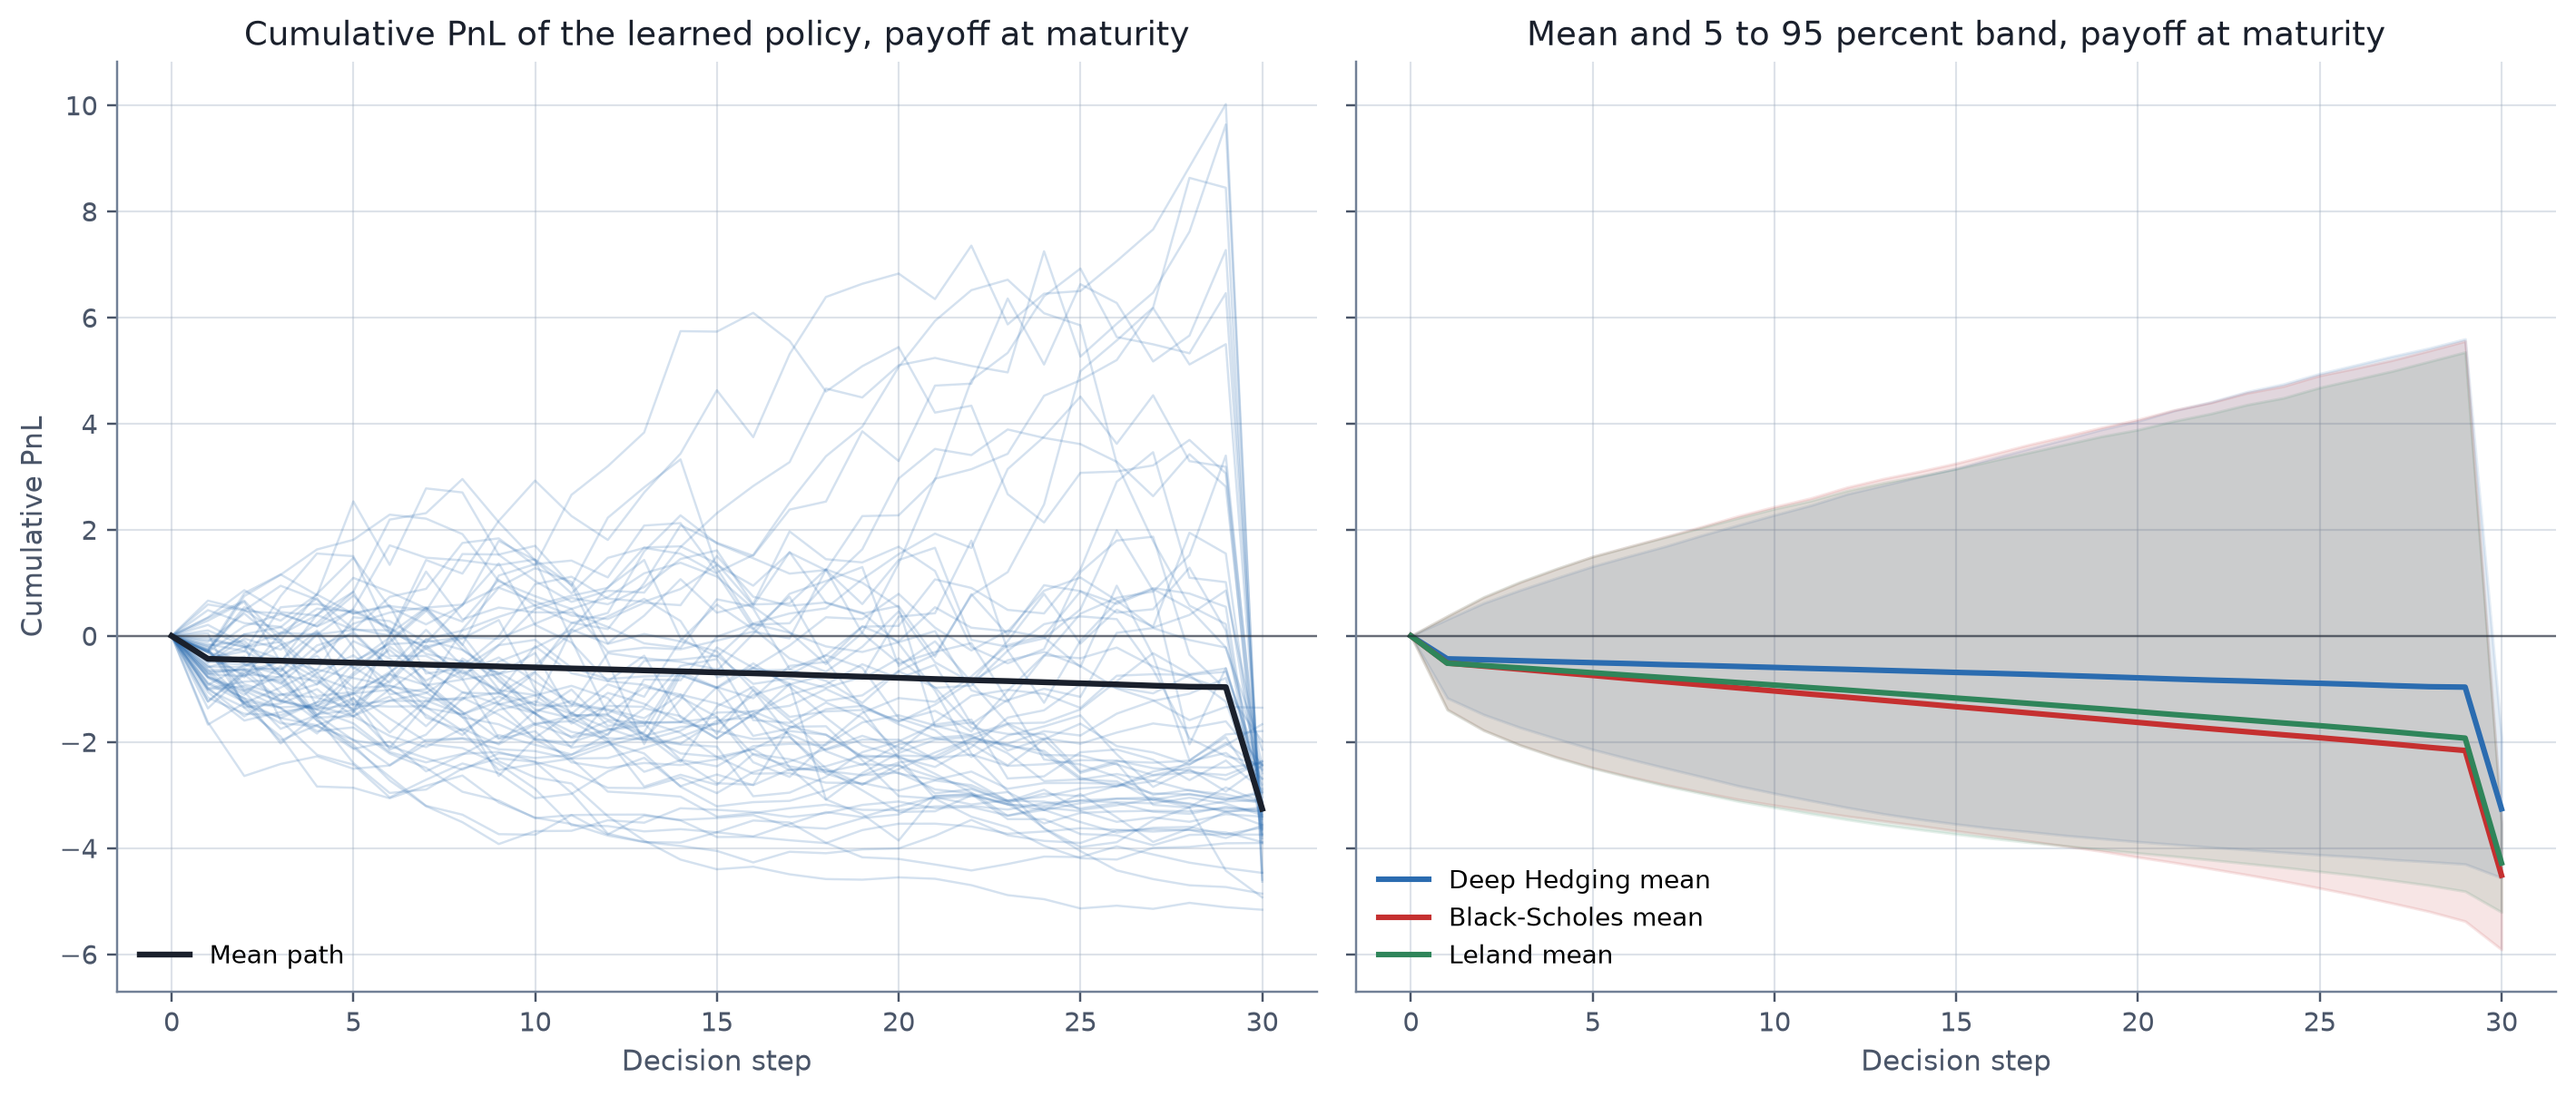
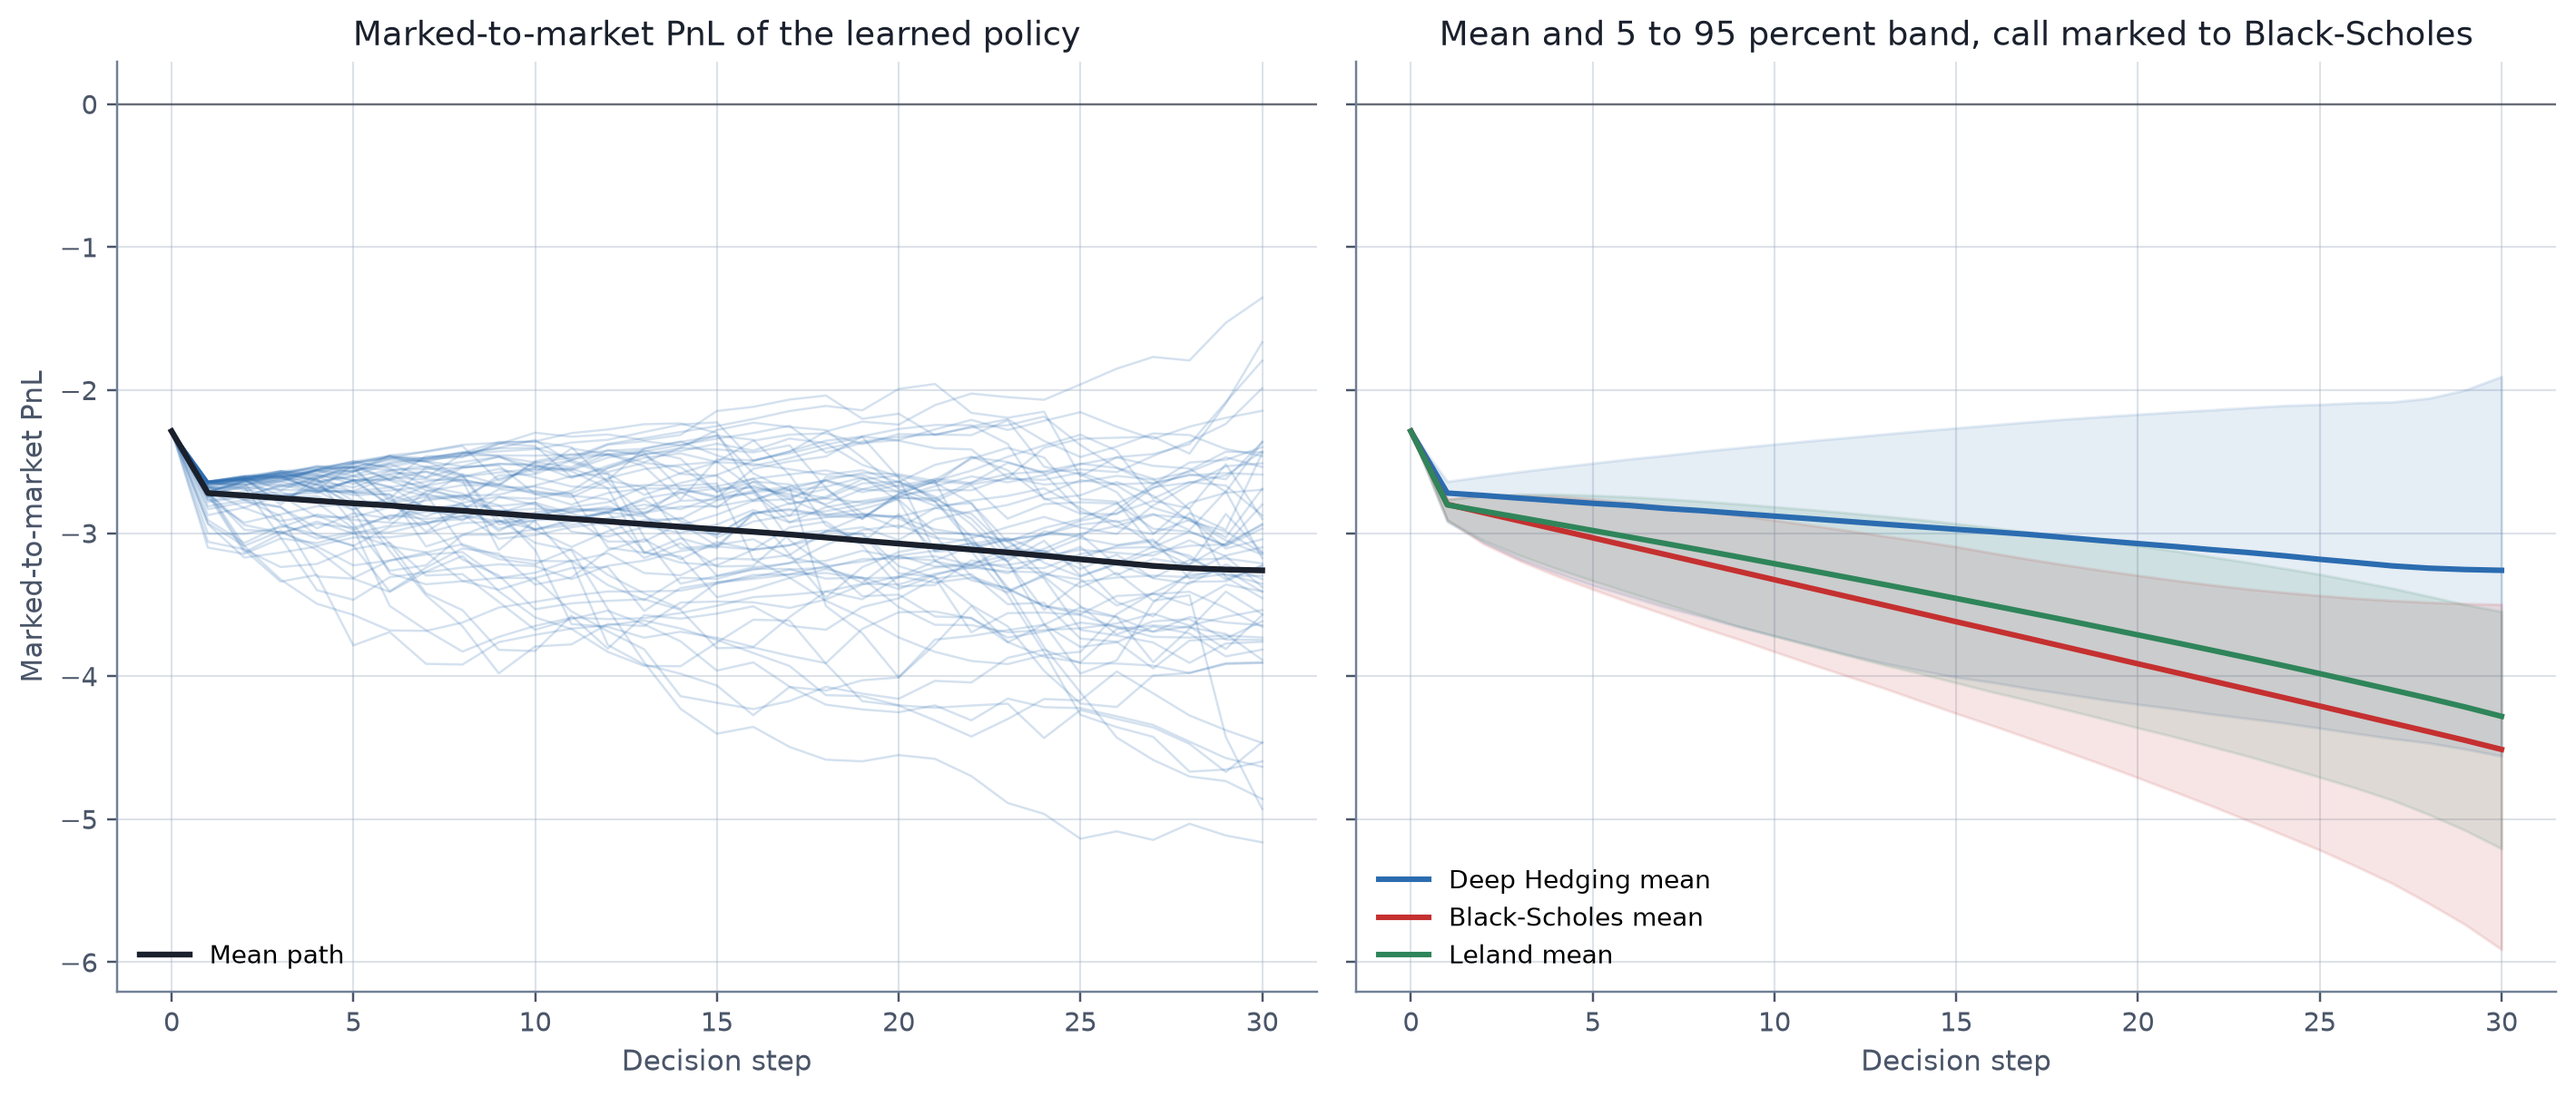
Re-run the canonical study with the marked-to-market drawdown
The review fixes changed the drawdown and turnover definitions but left
the stored canonical run on the old ones, so the document had to
withdraw those numbers. Re-running main.py at seed 42 replaces them.

Marked-to-market drawdown is now 1.327 for deep hedging against 2.237
for Black-Scholes and 2.015 for Leland, the same ordering as the CVaR
results, where the terminal-jump version gave 5.213, 6.121 and 5.896 and
could not separate the strategies. Traded-volume turnover is 0.972,
2.224 and 1.994, close to the mean cost column as it must be under
proportional costs.

Update the drawdown, turnover and pnl_paths sections to the new numbers,
drop the completed rerun from the next experiments, and fix the README
layout fence language.

diff --git a/PRELIMINARY_ANALYSIS.md b/PRELIMINARY_ANALYSIS.md
@@ -680,12 +680,21 @@ trade. The paper does not print a GBM position trajectory figure, so this is an 
 
 ### `pnl_paths.png`
 
-**Withdrawn.** This figure plots the hedge account alone and books the whole option liability at the
-last step. The 5 to 95 percent bands therefore mostly show the gains and losses of holding about half a
-share, not the risk of the hedged position, and they are almost identical for all three strategies.
-`main.py` now draws this figure with the short call marked to its Black-Scholes value at every step,
-so the path ends exactly at terminal PnL; the corrected figure is produced on the next run of
-`main.py`. The file in `results/` is the old version and should not be used.
+Left: 60 sampled marked-to-market PnL paths of the learned policy through the decision steps, with the
+mean path. Right: the mean path and the 5 to 95 percent band for all three strategies.
+
+The short call is carried at its Black-Scholes value at every decision date, so the path ends exactly
+at terminal PnL and there is no artificial cliff at maturity. The mean path starts at about -2.3, drops
+to -2.7 once the first trade is paid for, and then declines gently to -3.26. The three strategies
+separate cleanly: deep hedging ends at -3.26, Leland at -4.28 and Black-Scholes at -4.51, and the
+ordering is the same at every step from about step 3 onward. The deep hedging band is the widest of the
+three, which is the same dispersion trade-off visible in the histogram: the policy buys a better mean
+and a better tail at the price of a wider body.
+
+An earlier version of this figure plotted the hedge account alone and booked the whole liability at the
+last step. Its bands mostly showed the gains and losses of holding about half a share, were almost
+identical across strategies, and ended in a cliff that was an artifact of the accounting rather than of
+the hedging. That version is superseded.
 
 ### Paper reproduction figures
 
@@ -805,13 +814,18 @@ figure pipeline are consistent.
 | Black-Scholes | -4.512 | 0.757 | 6.363 | 7.016 | 4.861 | 2.224 | -2.288 | 0.526 |
 | Leland | -4.281 | 0.512 | 5.539 | 6.039 | 4.429 | 1.993 | -2.288 | 0.495 |
 
-The turnover column has been removed. The stored values (15.51, 15.01, 15.11, also in the `turnover`
-field of `canonical_run.json`) were the sum of absolute positions, not traded volume. `main.py` now
-reports traded volume $\sum_k |\delta_k - \delta_{k-1}|$. With a 1 percent cost and a spot near 100,
-traded volume is close to the mean cost column, about 0.97, 2.22 and 1.99. Gross PnL is the same for all
+The turnover column has been removed. The previously stored values (15.51, 15.01, 15.11) were the sum
+of absolute positions, not traded volume, and they have been replaced in `canonical_run.json`. `main.py`
+now reports traded volume $\sum_k |\delta_k - \delta_{k-1}|$. With a 1 percent cost and a spot near 100,
+traded volume is close to the mean cost column: 0.972 for deep hedging, 2.224 for Black-Scholes and
+1.994 for Leland, against mean costs of 0.973, 2.224 and 1.993. Gross PnL is the same for all
 three strategies, as it must be: with zero drift every strategy's expected trading gain is zero.
 
-Drawdown figures from this run are withdrawn; see the drawdown section below.
+Drawdown is reported two ways. The terminal-jump version, which books the liability at maturity, gives
+mean 5.213, 6.121 and 5.896 with worst 26.650, 26.739 and 26.739; it is dominated by the common payoff
+and does not discriminate. The marked-to-market version, which carries the short call at its
+Black-Scholes value at every decision date, gives mean 1.327, 2.237 and 2.015 with worst 4.593, 6.638
+and 5.277, and it does discriminate. See the drawdown section below.
 
 Policy response at step 15 with previous position 0.508, benchmark reference in brackets:
 
@@ -992,17 +1006,26 @@ the GBM case and 0.8 here. The policy keeps the main feature of the frictional o
 position depends on the previous position, but it trades by partial adjustment rather than through a
 wide no-trade band.
 
-### Drawdown: withdrawn
+### Drawdown: terminal jump against marked-to-market
 
-The drawdown numbers from this run are withdrawn. The terminal-jump version books the whole liability
-at the last step, so it is dominated by the largest payoff and barely differs across strategies. The
-intra-horizon version used the hedge account alone, which ignores the short call: it measures the
-gains and losses of holding about half a share, not the risk of the hedged position. `main.py` now
-computes a marked-to-market drawdown, with the short call carried at its Black-Scholes value at every
-step (`marked_pnl_path` in `src/benchmarks.py`), so the path ends exactly at terminal PnL. Its numbers
-are produced on the next run of `main.py`. On a separate run of the same configuration on another
-machine it gave mean drawdowns of 1.32 (deep hedging), 2.24 (Black-Scholes) and 2.02 (Leland), the same
-ordering as the CVaR results, but those numbers are not from the run reported here.
+The earlier intra-horizon drawdown is withdrawn. It used the hedge account alone, which ignores the
+short call: it measured the gains and losses of holding about half a share, not the risk of the hedged
+position. `main.py` now computes a marked-to-market drawdown, with the short call carried at its
+Black-Scholes value at every step (`marked_pnl_path` in `src/benchmarks.py`), so the path ends exactly
+at terminal PnL.
+
+| Strategy | Terminal mean | Terminal worst | MtM mean | MtM p95 | MtM worst |
+| --- | --- | --- | --- | --- | --- |
+| Deep Hedging | 5.213 | 26.650 | 1.327 | 2.411 | 4.593 |
+| Black-Scholes | 6.121 | 26.739 | 2.237 | 3.633 | 6.638 |
+| Leland | 5.896 | 26.739 | 2.015 | 2.928 | 5.277 |
+
+The terminal column confirms the problem: the worst values are 26.650, 26.739 and 26.739, essentially
+identical, because the terminal jump is the same unbounded payoff for every strategy. The
+marked-to-market column separates them: deep hedging has the lowest mean drawdown at 1.327 against
+2.237 for Black-Scholes and 2.015 for Leland, and the lowest worst case at 4.593 against 6.638 and
+5.277. This is consistent with the CVaR ordering and shows the improvement is not confined to the
+terminal distribution.
 
 ### Entropic risk aversion sweep
 
@@ -1115,8 +1138,9 @@ not a capacity limit, but removing that artifact made it competitive rather than
    $\alpha = 0.95$ policy beats it on its own CVaR 99 objective), and the recurrent network's advantage
    under costs (Figure 5) does not appear (a tie within seed noise).
 3. The paper-architecture comparison did not use the paper's inputs or ReLU because of a configuration
-   bug, now fixed; the drawdown and `pnl_paths.png` from the canonical run are withdrawn because they
-   ignored the option. Both need a rerun to replace.
+   bug, now fixed; the comparison needs a rerun to replace the stored numbers. The drawdown and
+   `pnl_paths.png` were withdrawn because they ignored the option, and both have now been re-run with
+   the short call marked to its Black-Scholes value.
 4. Seed dispersion is measured and small relative to every reported gap. Across 5 seeds the learned
    policy's entropic risk varies by a standard deviation of 0.004 and CVaR 95 by 0.029, against gaps
    to Leland of 0.846 and 0.569. Every gap is significant at a t ratio of 26.9 or higher. The
@@ -1208,8 +1232,11 @@ price only at the money or do not use the analytic pricer at all.
   Leland from 0.10 percent cost upward is significant at a t ratio of 2.7 or higher.
 - The CVaR advantage over Leland, previously not significant at a t ratio of 1.2, is now significant
   at a t ratio of 39.2 for CVaR 95 and 26.9 for CVaR 99.
-- The drawdown metric is corrected in code: `main.py` now marks the short call to its Black-Scholes
-  value along the path. The stored intra-horizon numbers are withdrawn until the next run.
+- The drawdown metric is corrected in code and re-run. `main.py` now marks the short call to its
+  Black-Scholes value along the path, so the drawdown path ends exactly at terminal PnL. The
+  marked-to-market mean drawdown is 1.327 for deep hedging against 2.237 for Black-Scholes and 2.015
+  for Leland, the same ordering as the CVaR results. The earlier intra-horizon numbers, which used the
+  hedge account alone, are withdrawn.
 - The time-dependent variant is competitive under LayerNorm, and the comparison is now 5-seed. At
   100,000 paths and 20 epochs it reaches an entropic risk of 3.664 ± 0.010 against 3.581 ± 0.004 for the
   shared variant, and beats both benchmarks. The shared mode is ahead on every measure, so it stays
@@ -1252,15 +1279,13 @@ price only at the money or do not use the analytic pricer at all.
    paths or a lower learning rate, using the simple network as the paper does for Figures 8 and 9.
 2. Rerun the architecture comparison with the configuration bug fixed, and the recurrent ablation in
    the paper's own Heston setting, to test Figure 5 where the paper ran it.
-3. Rerun `main.py --no-sensitivity` (about 10 minutes) to produce the marked-to-market drawdown, the
-   corrected `pnl_paths.png` and traded-volume turnover.
-4. Calibrate a simulator to a real return series and evaluate out of sample on a held-out window, which
+3. Calibrate a simulator to a real return series and evaluate out of sample on a held-out window, which
    is the paper's Section 5.5. This needs real market data and a GJR-GARCH fit, both outside the
    declared scope, and it is the only substantive paper experiment still missing alongside Section 5.4.
-5. Reproduce Section 5.4, five Heston models with ten instruments. The paper reports 5.75 hours of
+4. Reproduce Section 5.4, five Heston models with ten instruments. The paper reports 5.75 hours of
    training for it, so it needs a larger compute budget rather than new code, since the multi
    instrument PnL engine and the exact CIR simulator both already support it.
-6. Test a path-dependent payoff, for example a down-and-out call, evaluated directly on the simulated
+5. Test a path-dependent payoff, for example a down-and-out call, evaluated directly on the simulated
    paths.
-7. Add a second friction model, for example quadratic market impact or a bid-ask spread, to test
+6. Add a second friction model, for example quadratic market impact or a bid-ask spread, to test
    whether the no-transaction band widens as the theory predicts when costs become nonlinear.

diff --git a/README.md b/README.md
@@ -8,7 +8,7 @@ generated synthetically by Monte Carlo, so the project is fully self-contained.
 
 ## Layout
 
-```
+```text
 deep_hedging_project/
 ├── config.py              # Configuration dataclass, defaults and validation
 ├── main.py                # Training, evaluation, reporting and plotting entry point
@@ -207,8 +207,9 @@ The run prints a comparison table with mean PnL, standard deviation, 95 and 99 p
 drawdown, then writes figures to `results/`. Drawdown is reported twice: a terminal-jump version that
 books the whole liability at maturity, and a marked-to-market version in which the short call is
 carried at its Black-Scholes value at every step, which is the interpretable one. Turnover is the
-traded volume. The stored drawdown numbers and `pnl_paths.png` predate this and used the hedge account
-alone; they are replaced on the next run of `main.py`.
+traded volume, $\sum_k |\delta_k - \delta_{k-1}|$, which with a 1 percent cost is close to the mean
+cost column. The stored values in `results/canonical_run.json` and `results/pnl_paths.png` are from
+a run with both fixes applied.
 
 | File | Content |
 | --- | --- |
